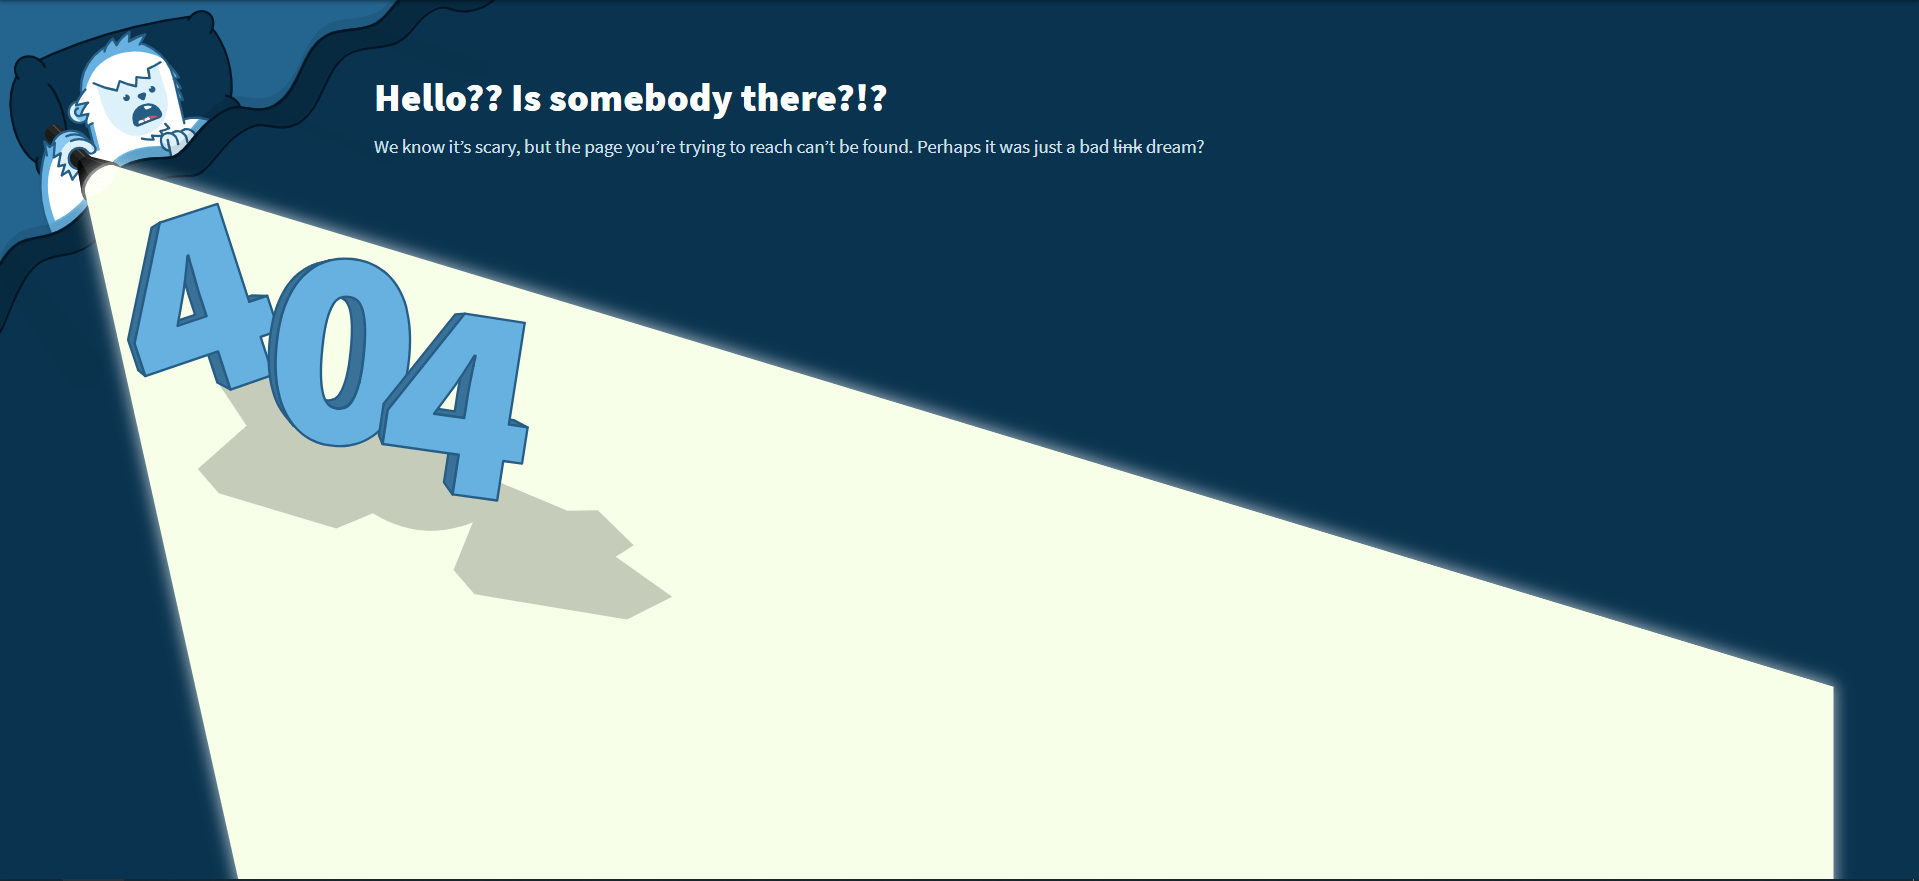
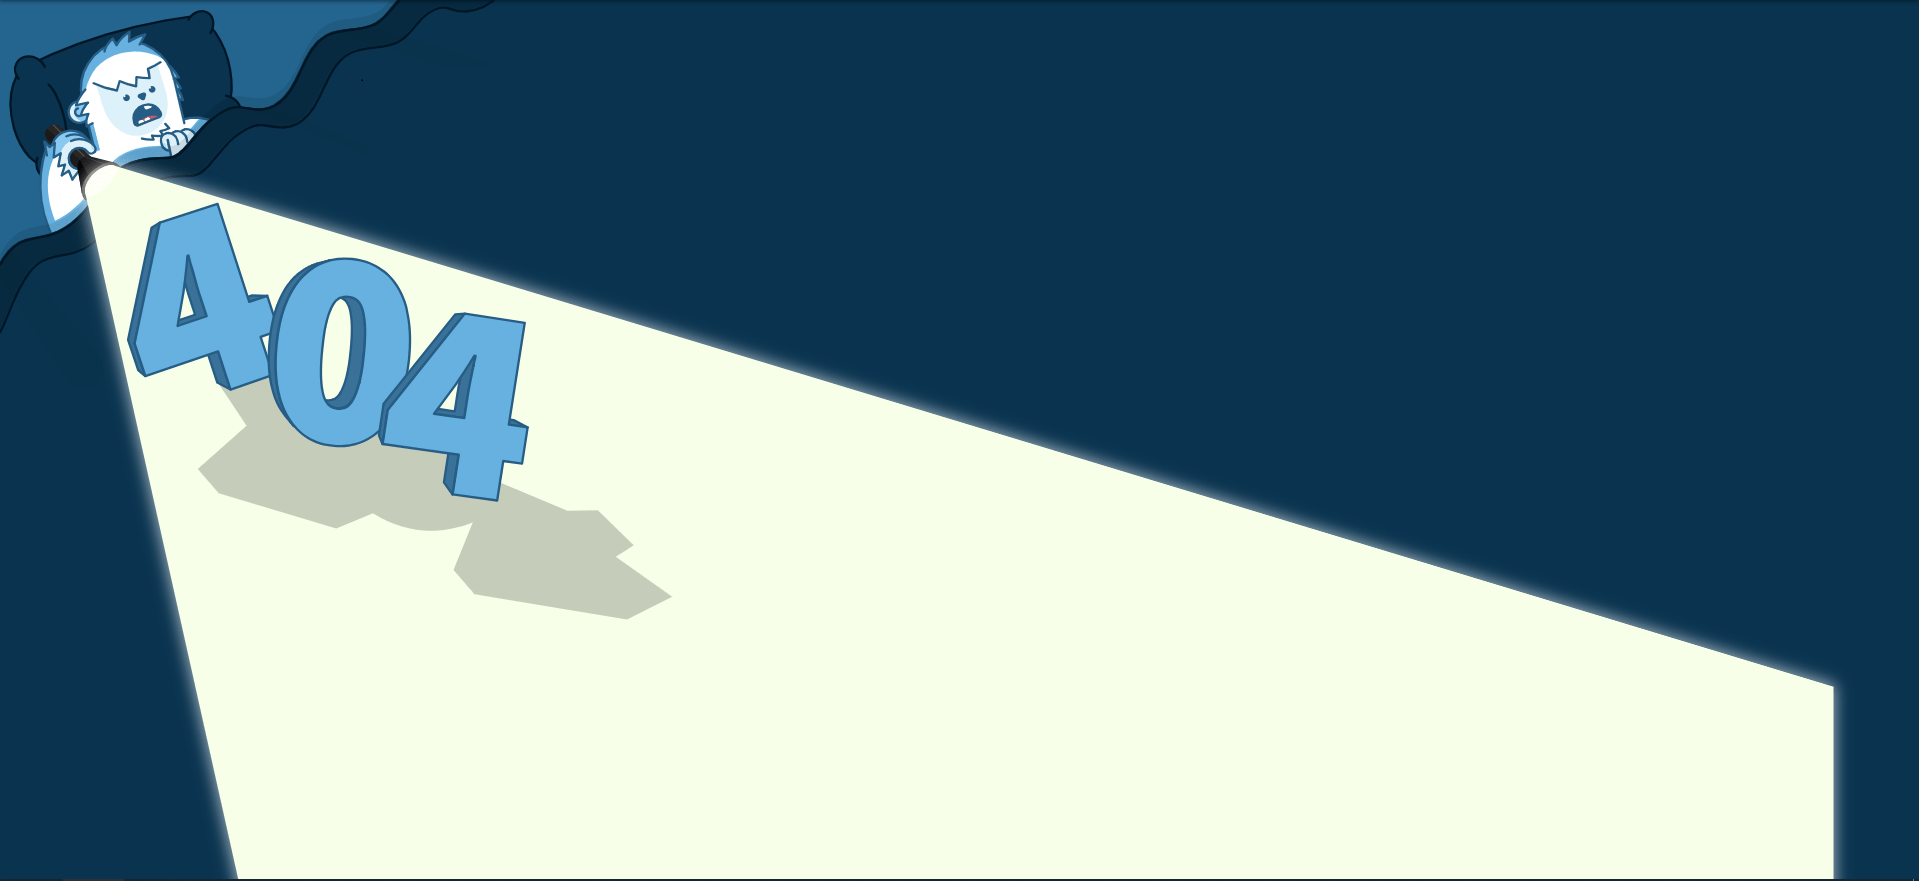
page not found updated

Changed region(s): [[0.1845, 0.0919, 0.6149, 0.1839]]

diff --git a/website/pagenotfound.html b/website/pagenotfound.html
@@ -15,11 +15,11 @@
 </head>
 
 <body>
-  <!-- navigation bar -->
-  <div class="navigationbar" >
+    <!-- navigation bar -->
+    <div class="navigationbar">
 
-        
-    
+
+
         <!-- name of the Application -->
         <div class="navbarfont navigationbar--left">
             <i class="fas fa-camera-retro navbar_items u-margin-right-large"></i>
@@ -50,7 +50,7 @@
                 <!-- if user signed the following div will be displayed -->
                 <div class="signincontainer">
                     <div class="flex-center">
-                            <img src="img/icons/man.png" class="signincontainer__img" alt="">
+                        <img src="img/icons/man.png" class="signincontainer__img" alt="">
                     </div>
                     <ul class="ul__list">
                         <li class="ul__list--items">
@@ -60,14 +60,14 @@
                             <h2 class="accountHolderId font-xsmall">cs16msiit020@kazirangauniversity.in</h2>
                         </li>
                         <li class="ul__list--items">
-                            
+
                             <a href="settings.html" class="list--link font-small"> Account</a>
 
                             <a href="dashboard.html" class="list--link font-small">My&nbsp;videos</a>
 
                             <a href="profile.html" class="list--link font-small">My&nbsp;Profile</a>
-                        
-                        
+
+
                         </li>
 
                         <!-- list item for progress bar -->
@@ -109,14 +109,23 @@
 
             </div>
         </div>
-</div>
-<!-- ending of navigation bar -->
+    </div>
+    <!-- ending of navigation bar -->
 
 
     <!-- for the background -->
     <div class="bgcontain">
 
-        <a href="home.html" class="backhome"><i class="far fa-hand-point-left"></i>Home</a>
+        <div class="errortext">
+            <b>
+                <h1 class="error-font">Hello?? <span class="breakneeded"><br></span> Is somebody there??</h1>
+            </b>
+            <p class="font-small errorpara">we know it's scary,but the page you are trying to reach can't be found.
+                Perhaps it was just a bad link
+                dream?</p>
+            <a href="home.html" class="backhome"><i class="far fa-hand-point-left"></i>Home</a>
+
+        </div>
     </div>
 
     <!-- display js -->

diff --git a/website/sass/pages/_404.scss b/website/sass/pages/_404.scss
@@ -1,27 +1,73 @@
 .bgcontain {
   width: 100%; //width of the division
   height: 90.5vh; //the heightof the divion
-  animation: change steps(1) 2s infinite ;
-  @include respond(phone){
-  height: 91.5vh; //the heightof the divion
+  color: white;
+  background-repeat: no-repeat;
+  
+  animation: change steps(1) 2s infinite;
+  @include respond(phone) {
+    background-size: cover;
+    background-repeat: no-repeat;
+    height: 92.6vh; //the heightof the divion
   }
 }
 
-.backhome{
-  position: relative;
-  top: 30%;
-  left: 60%;
+.backhome {
+
   color: $color-white;
   font-weight: 900;
   font-size: 2rem;
-  padding: .77rem;
-  border: .2rem solid $color-white;
+  padding: 0.77rem;
+  border: 0.2rem solid $color-white;
   border-radius: 2rem;
-
-  &:hover{
-    transition: all .6s;
-    background-color:$color-grey-light-2;
+  
+  @include respond(nohd){
+    margin-left: 24rem;
+  }
+  @include respond(tab-land){
+    margin-left: 34rem;
+  }
+  @include respond(phone){
+    margin-left: 0rem;
+  }
+  &:hover {
+    transition: all 0.6s;
+    background-color: $color-grey-light-2;
     border-color: $color-black;
     color: $color-black;
   }
 }
+.breakneeded{
+  display: none;
+  @include respond(phone){
+    display: inline;
+  }
+}
+// position of error texts
+.errortext{
+  position: absolute;
+  top: 19%;
+  left: 24.3%;
+  @include respond(tab-land){
+    left: 33%;
+  } 
+ 
+  @include respond(phone){
+    top: 13.5%;
+    left: 65%;
+  }
+ 
+ 
+}
+.errorpara{
+  @include respond(phone){
+    display: none;
+  }
+}
+
+// error text fonr size
+.error-font{
+  font-size: 4rem;
+  @include respond(phone){
+    font-size: 20px;
+  }}

diff --git a/website/css/style.css b/website/css/style.css
@@ -2426,26 +2426,64 @@ border-radius for curved end of button
 .bgcontain {
   width: 100%;
   height: 90.5vh;
+  color: white;
+  background-repeat: no-repeat;
   animation: change steps(1) 2s infinite; }
   @media (max-width: 824px) {
     .bgcontain {
-      height: 91.5vh; } }
+      background-size: cover;
+      background-repeat: no-repeat;
+      height: 92.6vh; } }
 
 .backhome {
-  position: relative;
-  top: 30%;
-  left: 60%;
   color: #fff;
   font-weight: 900;
   font-size: 2rem;
-  padding: .77rem;
+  padding: 0.77rem;
   border: 0.2rem solid #fff;
   border-radius: 2rem; }
+  @media (max-width: 1367px) {
+    .backhome {
+      margin-left: 24rem; } }
+  @media (max-width: 1024px) {
+    .backhome {
+      margin-left: 34rem; } }
+  @media (max-width: 824px) {
+    .backhome {
+      margin-left: 0rem; } }
   .backhome:hover {
-    transition: all .6s;
+    transition: all 0.6s;
     background-color: #eee;
     border-color: #000;
     color: #000; }
+
+.breakneeded {
+  display: none; }
+  @media (max-width: 824px) {
+    .breakneeded {
+      display: inline; } }
+
+.errortext {
+  position: absolute;
+  top: 19%;
+  left: 24.3%; }
+  @media (max-width: 1024px) {
+    .errortext {
+      left: 33%; } }
+  @media (max-width: 824px) {
+    .errortext {
+      top: 13.5%;
+      left: 65%; } }
+
+@media (max-width: 824px) {
+  .errorpara {
+    display: none; } }
+
+.error-font {
+  font-size: 4rem; }
+  @media (max-width: 824px) {
+    .error-font {
+      font-size: 20px; } }
 
 .progressbox {
   position: relative;

diff --git a/website/README.md b/website/README.md
@@ -1,7 +1,21 @@
 #project-VSA
 <!-- install video.js -->
 npm install video.js
+........................................................................
+New AOS library added
 
+1) style sheet link
+ <link href="https://unpkg.com/aos@2.3.1/dist/aos.css" rel="stylesheet">
+ 
+ 
+2) script source 
+  <script src="https://unpkg.com/aos@2.3.1/dist/aos.js"></script>
+  
+3) To initiate the AOS
+ <script>
+    AOS.init();
+</script>
+.........................................................................
 signin form id's:
 ------------------
  signin_email
@@ -110,20 +124,7 @@ img2->"img/event1.jpg"
 img3->"img/floor1.jpg"
 
 
-........................................................................
-New AOS library added
 
-1) style sheet link
- <link href="https://unpkg.com/aos@2.3.1/dist/aos.css" rel="stylesheet">
- 
- 
-2) script source 
-  <script src="https://unpkg.com/aos@2.3.1/dist/aos.js"></script>
-  
-3) To initiate the AOS
- <script>
-    AOS.init();
-</script>
 
 ......................................................
  
